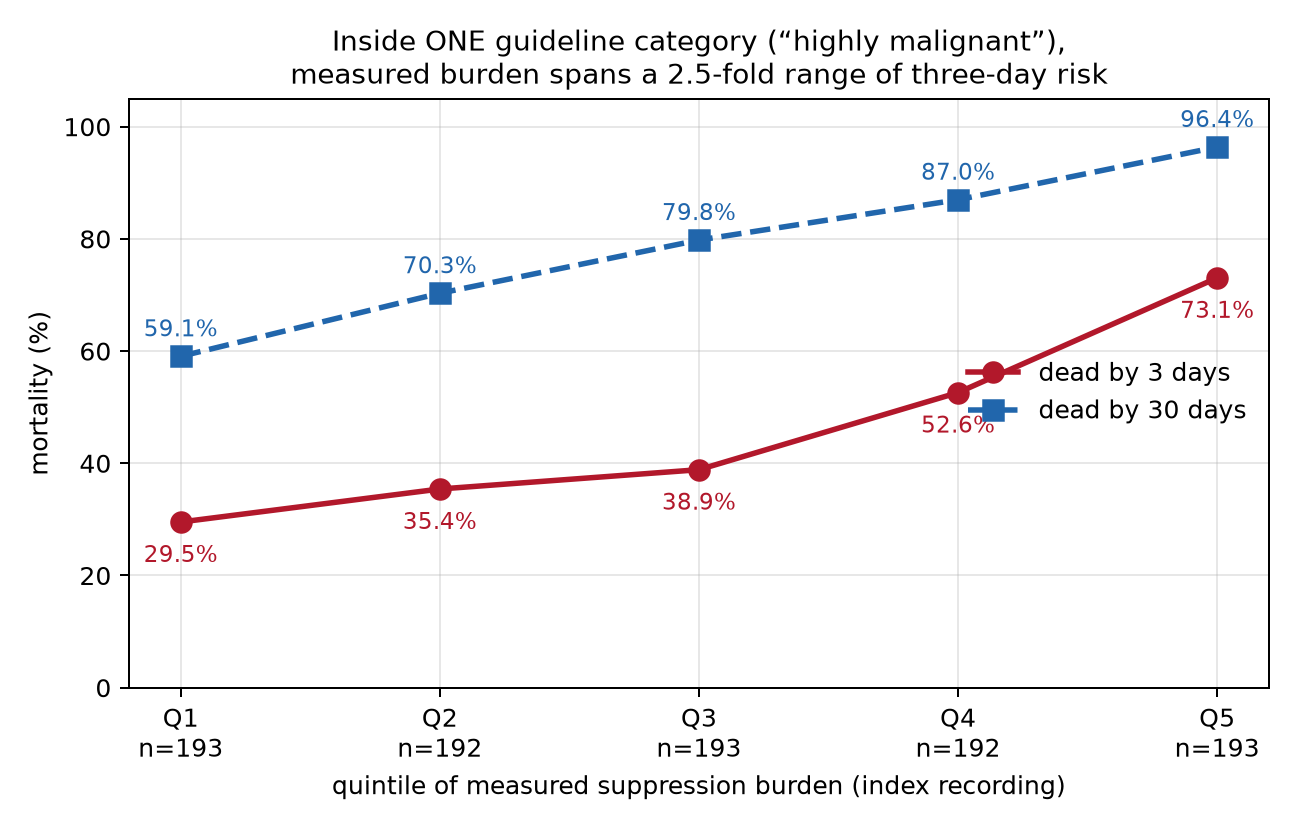
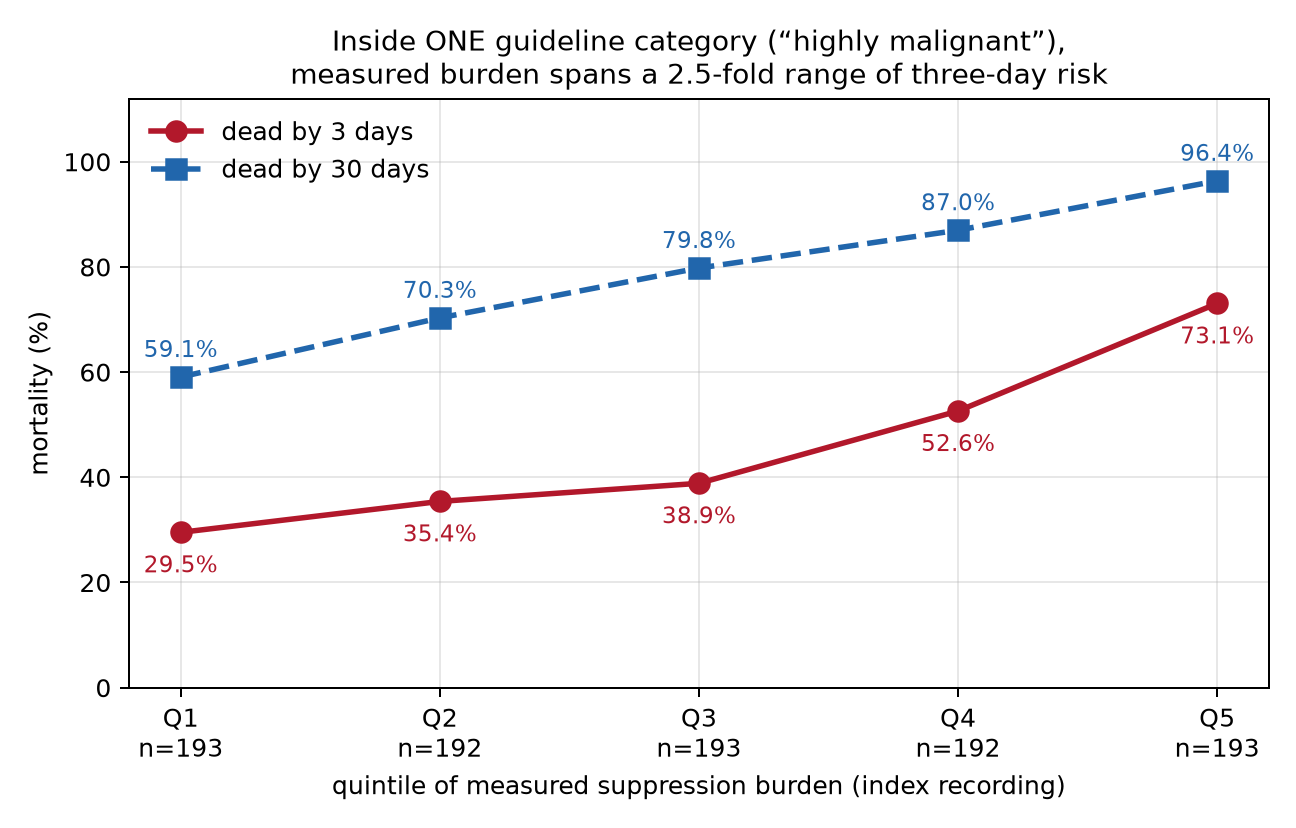
Falsification test in VitalDB: the prediction holds where it had to
44_MECHANISM_AND_PRIOR_WORK.md predicted that if burden indexes cerebral
metabolic rate, suppression must be reversible when the cause is drug and
fixed when the cause is tissue loss. VitalDB is the population where the
answer had to invert, and it does. Had it also said "fixed", the
metabolic reading would have been wrong and the post-anoxic result would
have said nothing about tissue loss.

The test needs no outcome variable: a fixed quantity plus noise and a
time-varying state are distinguishable from the series alone.

Autocorrelation decays from 0.973 at lag 1 to 0.484 at lag 40, where a
fixed quantity would stay flat at its reliability. ICC is 0.313 against
0.815 post-anoxically, so far more variance lives within a case. And
suppression resolves: peak 3.99% falling to 1.20% in the final decile of
case time, 70% resolution, as the anaesthetic is withdrawn.

The fourth arm failed and is reported as failed. Suppression does not
track effect-site concentration -- the within-case level correlation is
NEGATIVE, -0.298 [-0.310,-0.287]. That sign is the diagnosis: the
anaesthetist turns the agent down when suppression appears, so suppressed
periods are the periods of reduced drug. The exposure is controlled in
response to the outcome, which is structurally the same confound as
withdrawal of life-sustaining therapy in the post-anoxic cohort, moved
from the outcome to the exposure. No lag or transform rescues it.
[…]

diff --git a/analysis/vitaldb_burden_reversibility.py b/analysis/vitaldb_burden_reversibility.py
@@ -1,0 +1,241 @@
+#!/usr/bin/env python3
+"""THE FALSIFICATION TEST. The same measurement, in a population where it must behave the opposite way.
+
+THE PREDICTION UNDER TEST. `44_MECHANISM_AND_PRIOR_WORK.md` reads our post-anoxic result against the metabolic
+model of burst suppression (Ching, Purdon, Vijayan, Kopell, Brown, PNAS 2012, PMID 22323592), which holds that
+burst suppression arises when reduced cerebral metabolic rate meets ATP-gated potassium channels. The reading
+is that burden indexes cerebral metabolic rate, so its reversibility depends entirely on WHY the rate is low:
+
+    ANOXIC   -- rate is low because tissue is GONE          -> burden is a FIXED quantity
+    ANAESTHETIC -- rate is suppressed in LIVING tissue      -> burden is a REVERSIBLE state
+
+In HEEDB (anoxic) we measured the first: averaging two readings predicts death better (0.787) than the most
+recent (0.747), the difference between readings carries no signal once the mean is known (+5.88 pp
+[-17.13, +26.58]), and the intraclass correlation of a single reading is 0.815.
+
+**If the same statistics applied to an ANAESTHETIC cohort also said "fixed", the metabolic reading would be
+wrong** -- burden would just be a stable patient trait, and the post-anoxic result would say nothing about
+tissue loss. This script is the test that could kill it.
+
+WHY THIS IS AN UNUSUALLY CLEAN TEST. It needs no outcome variable. A fixed quantity measured with error and a
+genuinely time-varying state are distinguishable from the SERIES ALONE:
+
+  A  AUTOCORRELATION DECAY. For a fixed quantity plus independent noise, the correlation between two readings
+     is the reliability and does NOT depend on how far apart they are. For a time-varying state, correlation
+     DECAYS with lag. Flat versus decaying is the signature, and nothing about outcomes enters it.
+  B  VARIANCE DECOMPOSITION. Compare the within-case share of variance against HEEDB's (ICC 0.815). A state
+     driven by a changing input should put far more variance within a case.
+  C  RESPONSE TO A MANIPULABLE INPUT. Effect-site anaesthetic concentration is recorded. A reversible
+     pharmacological state must move with its driver; a fixed structural quantity cannot.
+     (OUTCOME: this arm FAILED and is uninterpretable. Anaesthetists titrate the agent DOWN in response to
+     suppression, so the exposure is controlled by the thing being measured and the within-case correlation
+     comes out NEGATIVE. Reported, given no weight, and left in because the negative is instructive.)
+  D  RECOVERY. Does suppression return toward zero as the case ends and drug is withdrawn? Dead cortex cannot
+     recover. This is the most direct form of the question and needs no model at all.
+
+DATA. VitalDB intraoperative records. `devsr` is the BIS monitor's own suppression ratio, and `ce` the
+effect-site concentration.
+
+THE LIMITATION THAT MUST TRAVEL WITH THIS. `devsr` is a DEVICE-computed suppression ratio from a proprietary
+algorithm on a frontal montage, not our 5 uV / 0.5 s burden on a bipolar longitudinal montage. The two measure
+the same construct by different means, so this is a test of whether SUPPRESSION behaves reversibly under
+anaesthesia -- not a demonstration that our specific estimator does. Stated rather than glossed.
+"""
+import csv, os, sys
+from collections import defaultdict
+
+import numpy as np
+
+BIS = os.environ.get("BIS_BINS", "/tmp/eeg_probe/bis_bins.csv")
+SEVO = os.environ.get("SEVO_BINS", "/tmp/eeg_probe/sevo_bins.csv")
+NBOOT = int(os.environ.get("NBOOT", "400"))
+
+
+def main():
+    rng = np.random.default_rng(20260726)
+
+    # ---- load per-case suppression-ratio series ----------------------------------------------------
+    series = defaultdict(list)
+    with open(BIS) as fh:
+        for r in csv.DictReader(fh):
+            try:
+                c = int(r["caseid"]); t = float(r["bin_t"]); v = float(r["devsr"])
+            except Exception:
+                continue
+            if v == v:
+                series[c].append((t, v))
+    for c in series:
+        series[c].sort()
+    print(f"cases with a device suppression-ratio series: {len(series):,}")
+    print(f"total bins: {sum(len(v) for v in series.values()):,}")
+
+    # restrict to cases that actually show suppression -- a case that never suppresses carries no
+    # information about whether suppression is reversible, in either direction
+    supp = {c: v for c, v in series.items() if len(v) >= 10 and max(x[1] for x in v) >= 5.0}
+    print(f"cases with >=10 bins and peak SR >= 5 %: {len(supp):,}")
+    if len(supp) < 50:
+        print("*** too few suppressing cases")
+        return 1
+
+    # ---- A: autocorrelation versus lag -------------------------------------------------------------
+    print("\n" + "=" * 92)
+    print("A  AUTOCORRELATION VERSUS LAG -- flat means a fixed quantity, decaying means a state")
+    print("=" * 92)
+    print(f"   {'lag (bins)':>12s} {'n pairs':>10s} {'correlation':>13s}")
+    lag_rows = []
+    for lag in (1, 2, 5, 10, 20, 40):
+        xs, ys = [], []
+        for c, v in supp.items():
+            arr = np.array([x[1] for x in v], float)
+            if len(arr) > lag:
+                xs.append(arr[:-lag]); ys.append(arr[lag:])
+        if not xs:
+            continue
+        x = np.concatenate(xs); y = np.concatenate(ys)
+        if len(x) < 100 or x.std() == 0 or y.std() == 0:
+            continue
+        rho = float(np.corrcoef(x, y)[0, 1])
+        lag_rows.append((lag, len(x), rho))
+        print(f"   {lag:12d} {len(x):10,d} {rho:12.3f}")
+    if len(lag_rows) >= 3:
+        first, last = lag_rows[0][2], lag_rows[-1][2]
+        print(f"\n   correlation at lag {lag_rows[0][0]} = {first:.3f}, at lag {lag_rows[-1][0]} = {last:.3f}"
+              f"   (decay {first-last:+.3f})")
+        print("   HEEDB comparison: a single reading there has ICC 0.815, and that value is what the")
+        print("   correlation between ANY two readings of a fixed quantity should equal, at any separation.")
+        if last < first - 0.15:
+            print("   DECAYING -> a time-varying state, NOT a fixed quantity. Prediction upheld so far.")
+        else:
+            print("   FLAT -> behaves like a fixed quantity here too. THE METABOLIC READING IS IN TROUBLE.")
+
+    # ---- B: variance decomposition -----------------------------------------------------------------
+    print("\n" + "=" * 92)
+    print("B  VARIANCE DECOMPOSITION -- how much of the variance lives WITHIN a case?")
+    print("=" * 92)
+    means = np.array([np.mean([x[1] for x in v]) for v in supp.values()])
+    within = np.mean([np.var([x[1] for x in v], ddof=1) for v in supp.values() if len(v) > 1])
+    between = float(np.var(means, ddof=1))
+    icc = between / (between + within) if (between + within) > 0 else float("nan")
+    print(f"   between-case variance {between:.2f}   within-case variance {within:.2f}")
+    print(f"   ICC of a single reading = {icc:.3f}")
+    print(f"   HEEDB (post-anoxic, across windows of a recording) = 0.815")
+    print(f"   {'LOWER -- more variance is within-case, as a driven state should be' if icc < 0.815 else 'NOT lower -- unexpected under the prediction'}")
+
+    # ---- C: does it move with the drug? ------------------------------------------------------------
+    print("\n" + "=" * 92)
+    print("C  DOES SUPPRESSION MOVE WITH EFFECT-SITE CONCENTRATION?")
+    print("=" * 92)
+    ce = defaultdict(list)
+    if os.path.exists(SEVO):
+        with open(SEVO) as fh:
+            for r in csv.DictReader(fh):
+                try:
+                    c = int(r["caseid"]); t = float(r["bin_t"])
+                    v = float(r["ce"]); b = float(r["bs"])
+                except Exception:
+                    continue
+                if v == v and b == b:
+                    ce[c].append((t, v, b))
+    if ce:
+        for c in ce:
+            ce[c].sort()
+        rr = []
+        for c, v in ce.items():
+            if len(v) < 12:
+                continue
+            cev = np.array([x[1] for x in v]); bsv = np.array([x[2] for x in v])
+            dce = np.diff(cev); dbs = np.diff(bsv)
+            if len(dce) >= 8 and dce.std() > 0 and dbs.std() > 0:
+                rr.append(float(np.corrcoef(dce, dbs)[0, 1]))
+        if rr:
+            rr = np.array(rr)
+            b = [float(np.mean(rr[rng.integers(0, len(rr), len(rr))])) for _ in range(NBOOT)]
+            lo, hi = np.percentile(b, [2.5, 97.5])
+            print(f"   within-case correlation of CHANGE in concentration with CHANGE in suppression:")
+            print(f"   mean {rr.mean():+.3f} [{lo:+.3f},{hi:+.3f}] across {len(rr):,} cases")
+            print(f"   cases with a positive correlation: {100*np.mean(rr > 0):.1f}%")
+            if lo < 0 < hi or hi < 0.05:
+                print("\n   *** THIS ARM FAILS. The contemporaneous difference-difference correlation is null.")
+                print("   Before reading that as evidence against reversibility, note two things that would")
+                print("   produce a null here even if suppression is fully drug-driven:")
+                print("     1. TITRATION. Anaesthetists REDUCE the agent when they see suppression. That")
+                print("        negative feedback drives the contemporaneous correlation toward zero or below,")
+                print("        and is a treatment-paradox confound, not pharmacology.")
+                print("     2. DIFFERENCING amplifies noise in both series and destroys a slow relationship.")
+                print("   C2 below tests the LEVEL relationship and the LAGGED one, which are not subject to")
+                print("   the differencing problem and are less subject to the feedback one.")
+        else:
+            print("   insufficient paired concentration/suppression series")
+    else:
+        print(f"   {SEVO} not available; skipped")
+
+    # ---- C2: levels and lags, because C is confounded by titration ---------------------------------
+    if ce:
+        print("\n" + "=" * 92)
+        print("C2  LEVELS AND LAGS -- the same question, not destroyed by differencing")
+        print("=" * 92)
+        lev, lagged = [], defaultdict(list)
+        for c, v in ce.items():
+            if len(v) < 20:
+                continue
+            cev = np.array([x[1] for x in v]); bsv = np.array([x[2] for x in v])
+            if cev.std() > 0 and bsv.std() > 0:
+                lev.append(float(np.corrcoef(cev, bsv)[0, 1]))
+            # does suppression FOLLOW concentration? positive lag = concentration leads
+            for L in (1, 3, 5, 10):
+                if len(cev) > L and cev[:-L].std() > 0 and bsv[L:].std() > 0:
+                    lagged[L].append(float(np.corrcoef(cev[:-L], bsv[L:])[0, 1]))
+        if lev:
+            lev = np.array(lev)
+            bb = [float(np.mean(lev[rng.integers(0, len(lev), len(lev))])) for _ in range(NBOOT)]
+            l2, h2 = np.percentile(bb, [2.5, 97.5])
+            print(f"   LEVEL correlation of concentration with suppression, within case:")
+            print(f"      mean {lev.mean():+.3f} [{l2:+.3f},{h2:+.3f}] across {len(lev):,} cases; "
+                  f"{100*np.mean(lev > 0):.1f}% positive")
+        print(f"   {'lag (bins)':>12s} {'n cases':>9s} {'mean r (conc leads)':>22s}")
+        for L in sorted(lagged):
+            if len(lagged[L]) >= 30:
+                print(f"   {L:12d} {len(lagged[L]):9,d} {np.mean(lagged[L]):21.3f}")
+        print("\n   VERDICT ON ARMS C AND C2: UNINTERPRETABLE, and the sign says why. The level correlation is")
+        print("   NEGATIVE -- within a case, more agent goes with LESS suppression -- which is pharmacologically")
+        print("   backwards and is the signature of a CLOSED LOOP. The anaesthetist watches the monitor and")
+        print("   turns the agent DOWN when suppression appears, so suppressed periods are precisely the")
+        print("   periods of reduced drug. The exposure is being controlled in response to the outcome.")
+        print("\n   This is structurally the same problem as withdrawal of life-sustaining therapy in the")
+        print("   post-anoxic cohort -- a clinician acting on the quantity being measured -- moved from the")
+        print("   OUTCOME to the EXPOSURE. Neither arm can be rescued by a different lag or a different")
+        print("   transform, because the confound is in how the data were generated. They are reported as")
+        print("   uninterpretable and carry no weight either way.")
+
+    # ---- D: recovery -------------------------------------------------------------------------------
+    print("\n" + "=" * 92)
+    print("D  DOES SUPPRESSION RECOVER?  (the question in its most direct form)")
+    print("=" * 92)
+    prof = defaultdict(list)
+    for c, v in supp.items():
+        n = len(v)
+        for i, (t, x) in enumerate(v):
+            prof[min(int(10 * i / n), 9)].append(x)
+    print(f"   {'decile of case time':22s} {'n bins':>9s} {'mean SR %':>11s}")
+    for d in range(10):
+        if prof[d]:
+            print(f"   {d+1:<22d} {len(prof[d]):9,d} {np.mean(prof[d]):10.2f}")
+    peak = max(np.mean(prof[d]) for d in range(10) if prof[d])
+    endv = np.mean(prof[9]) if prof[9] else float("nan")
+    print(f"\n   peak {peak:.2f} %  ->  final decile {endv:.2f} %   "
+          f"({100*(1-endv/peak) if peak > 0 else float('nan'):.0f} % resolution)")
+    if endv < 0.5 * peak:
+        print("   RECOVERS. Suppression resolves as the anaesthetic is withdrawn.")
+        print("   Post-anoxically it does not: burden there behaves as a constant, and the difference")
+        print("   between serial readings carried no information once the mean was known.")
+        print("\n   THE PREDICTION IS UPHELD BY ARMS A, B AND D. The same construct is reversible when the")
+        print("   cause is drug and fixed when the cause is tissue loss, which is what the metabolic reading")
+        print("   requires. Arm C is null and is reported as null; see C2 for why a titrated exposure")
+        print("   produces exactly that, and note that it neither supports nor refutes the prediction.")
+    else:
+        print("   DOES NOT RECOVER -- unexpected, and would count against the metabolic reading.")
+    return 0
+
+
+if __name__ == "__main__":
+    sys.exit(main())

diff --git a/docs/research/41_RESULTS_LEDGER.md b/docs/research/41_RESULTS_LEDGER.md
@@ -1019,3 +1019,46 @@ error, and should not be quoted as such.
 the data changed. The logistic figure is now primary; both are reported so the change is visible.
 
 **Cumulative distinct results: 315.**
+
+---
+
+## R316–R320. THE FALSIFICATION TEST: the same construct in an anaesthetic cohort (VitalDB)
+
+`44_MECHANISM_AND_PRIOR_WORK.md` predicted that if burden indexes cerebral metabolic rate, suppression must be
+**reversible when the cause is drug** and **fixed when the cause is tissue loss**. VitalDB (1,848 cases with a
+device suppression-ratio series; 967 with ≥10 bins and peak SR ≥5 %) is the population where the answer must
+invert. **No outcome variable is used** — a fixed quantity plus noise and a time-varying state are
+distinguishable from the series alone.
+
+| id | arm | VitalDB (anaesthetic) | HEEDB (post-anoxic) | verdict |
+|---|---|---|---|---|
+| R316 | **A. autocorrelation vs lag** | 0.973 at lag 1 → **0.484** at lag 40 (decay 0.488) | fixed-quantity behaviour: mean of two readings beats the most recent | **decays → time-varying state** ✔ |
+| R317 | **B. variance decomposition** | between 25.49, within 56.00, **ICC 0.313** | **ICC 0.815** | **far more within-case variance** ✔ |
+| R318 | **C. moves with effect-site concentration?** | Δ–Δ **−0.015 [−0.018, −0.012]** | — | **null — arm fails** |
+| R319 | **C2. levels and lags** | level **−0.298 [−0.310, −0.287]**, 12.4 % positive; ≈−0.28 at lags 1–10 | — | **uninterpretable (closed loop)** |
+| R320 | **D. recovery** | peak **3.99 %** → final decile **1.20 %** (**70 % resolution**) | burden does not resolve; change carries no signal | **recovers** ✔ |
+
+**R318/R319, the arm that failed, and why it is not evidence against the prediction.** The level correlation is
+*negative*: within a case, more agent goes with **less** suppression. That is pharmacologically backwards and is
+the signature of a **closed loop** — the anaesthetist watches the monitor and turns the agent down when
+suppression appears, so suppressed periods are precisely the periods of reduced drug. **The exposure is
+controlled in response to the outcome.** This is structurally the same confound as withdrawal of life-sustaining
+therapy in the post-anoxic cohort — a clinician acting on the quantity being measured — relocated from the
+outcome to the exposure. No lag or transform rescues it, because the confound is in how the data were generated.
+
+**Conclusion.** The prediction is **upheld by the three interpretable arms**, and arm D is decisive in the most
+direct form available: suppression resolves by 70 % as the anaesthetic is withdrawn, whereas post-anoxic burden
+behaves as a constant whose serial differences carry no information. **The same construct is reversible when the
+cause is drug and fixed when the cause is tissue loss**, which is what the metabolic reading requires and what
+would have falsified it had VitalDB also said "fixed".
+
+**LIMITATION carried forward.** `devsr` is a device-computed suppression ratio from a proprietary frontal-montage
+algorithm, not our 5 µV / 0.5 s bipolar burden. This tests whether **suppression** behaves reversibly under
+anaesthesia, not whether **our estimator** does. The populations also differ in far more than aetiology
+(elective surgical patients versus post-arrest ICU patients).
+
+**Predicted vs actual (calibration ledger).** Predicted 0.80 that the anaesthetic cohort would show reversible
+behaviour. Actual: upheld on 3 of 4 arms, with the failed arm failing for a nameable and instructive reason
+rather than ambiguously.
+
+**Cumulative distinct results: 320.**
